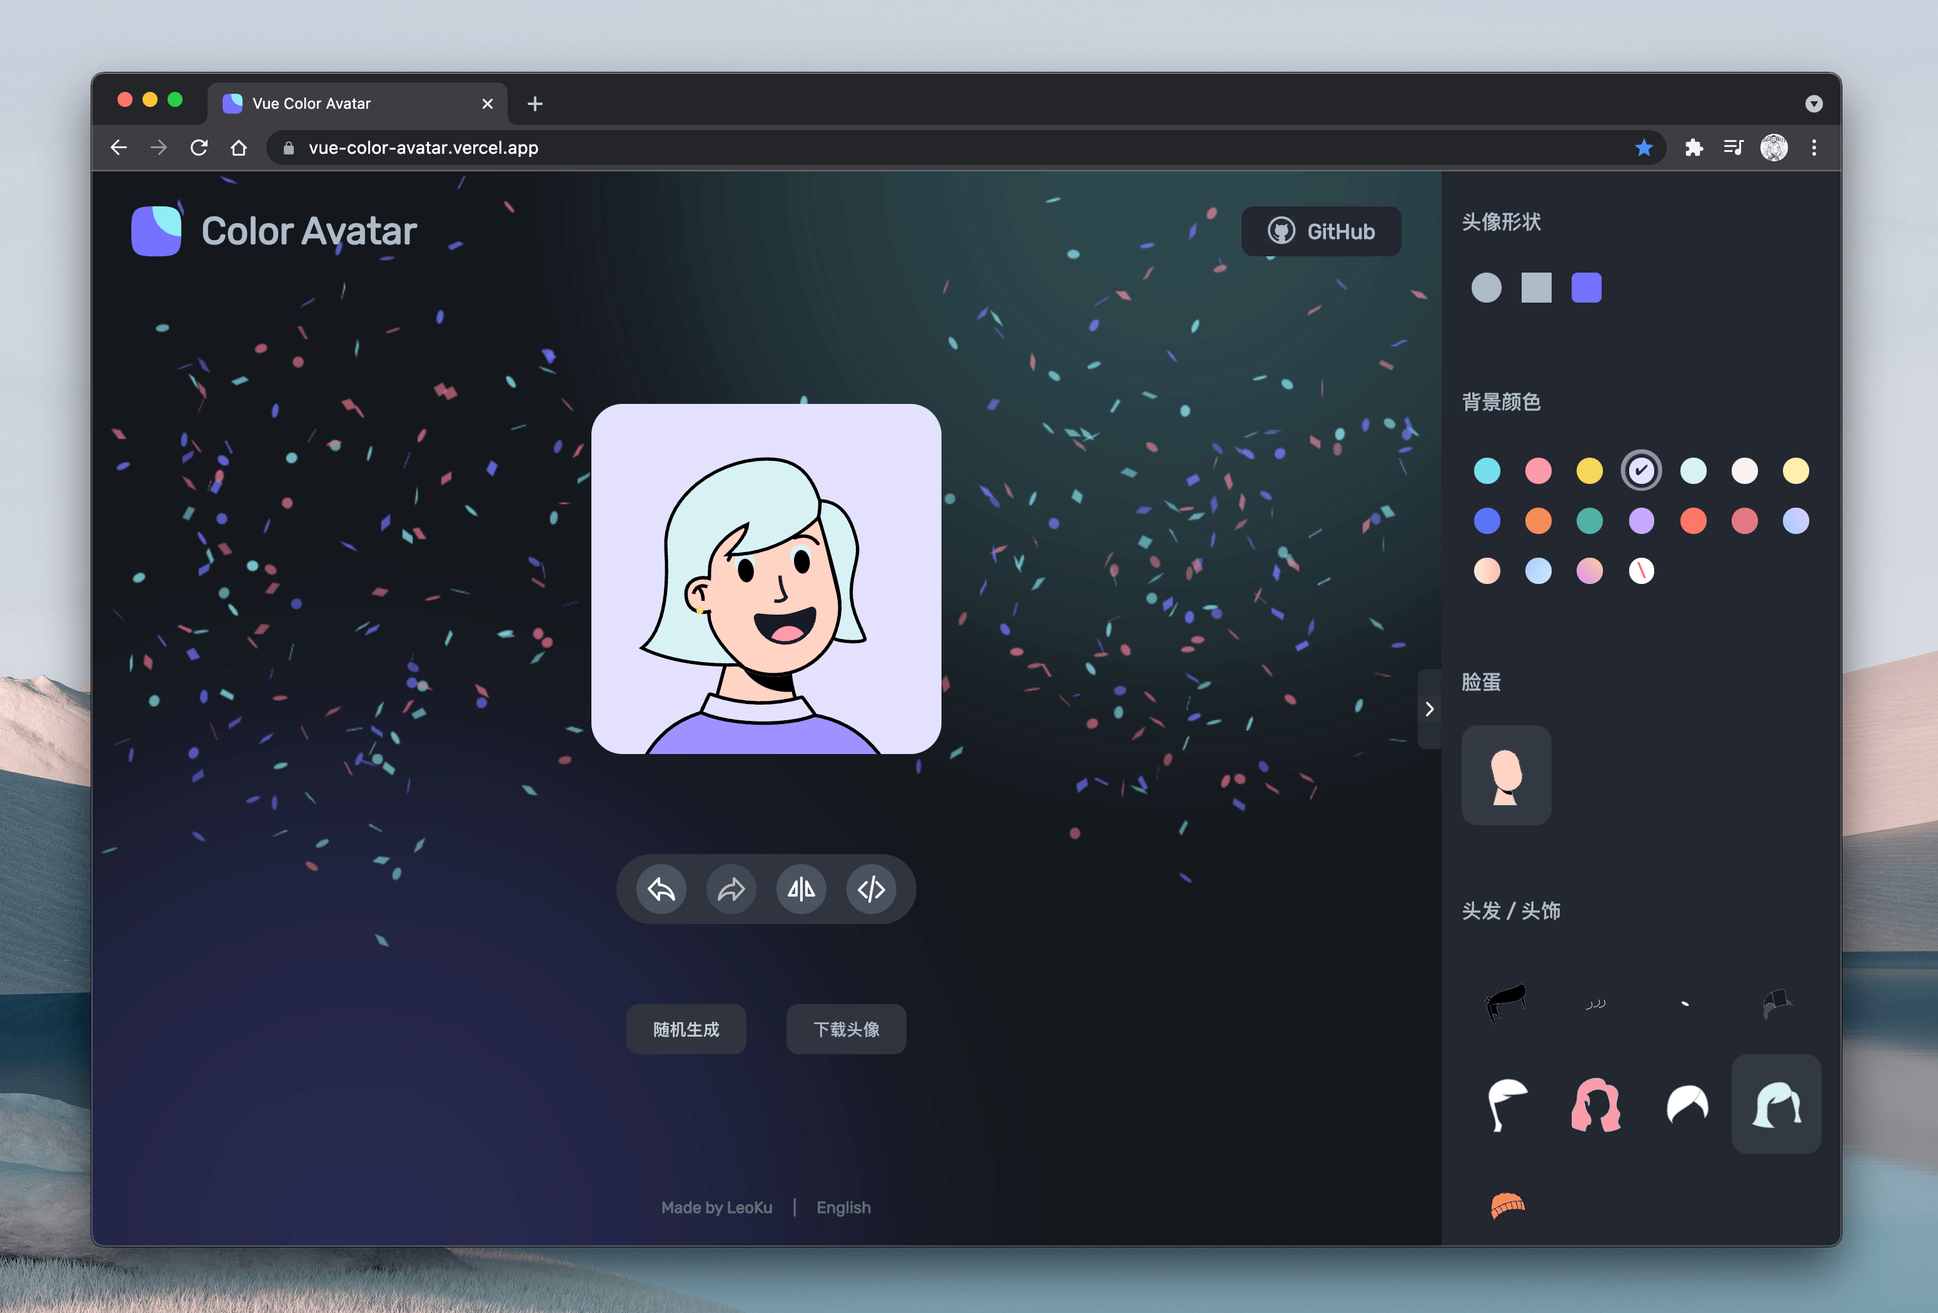
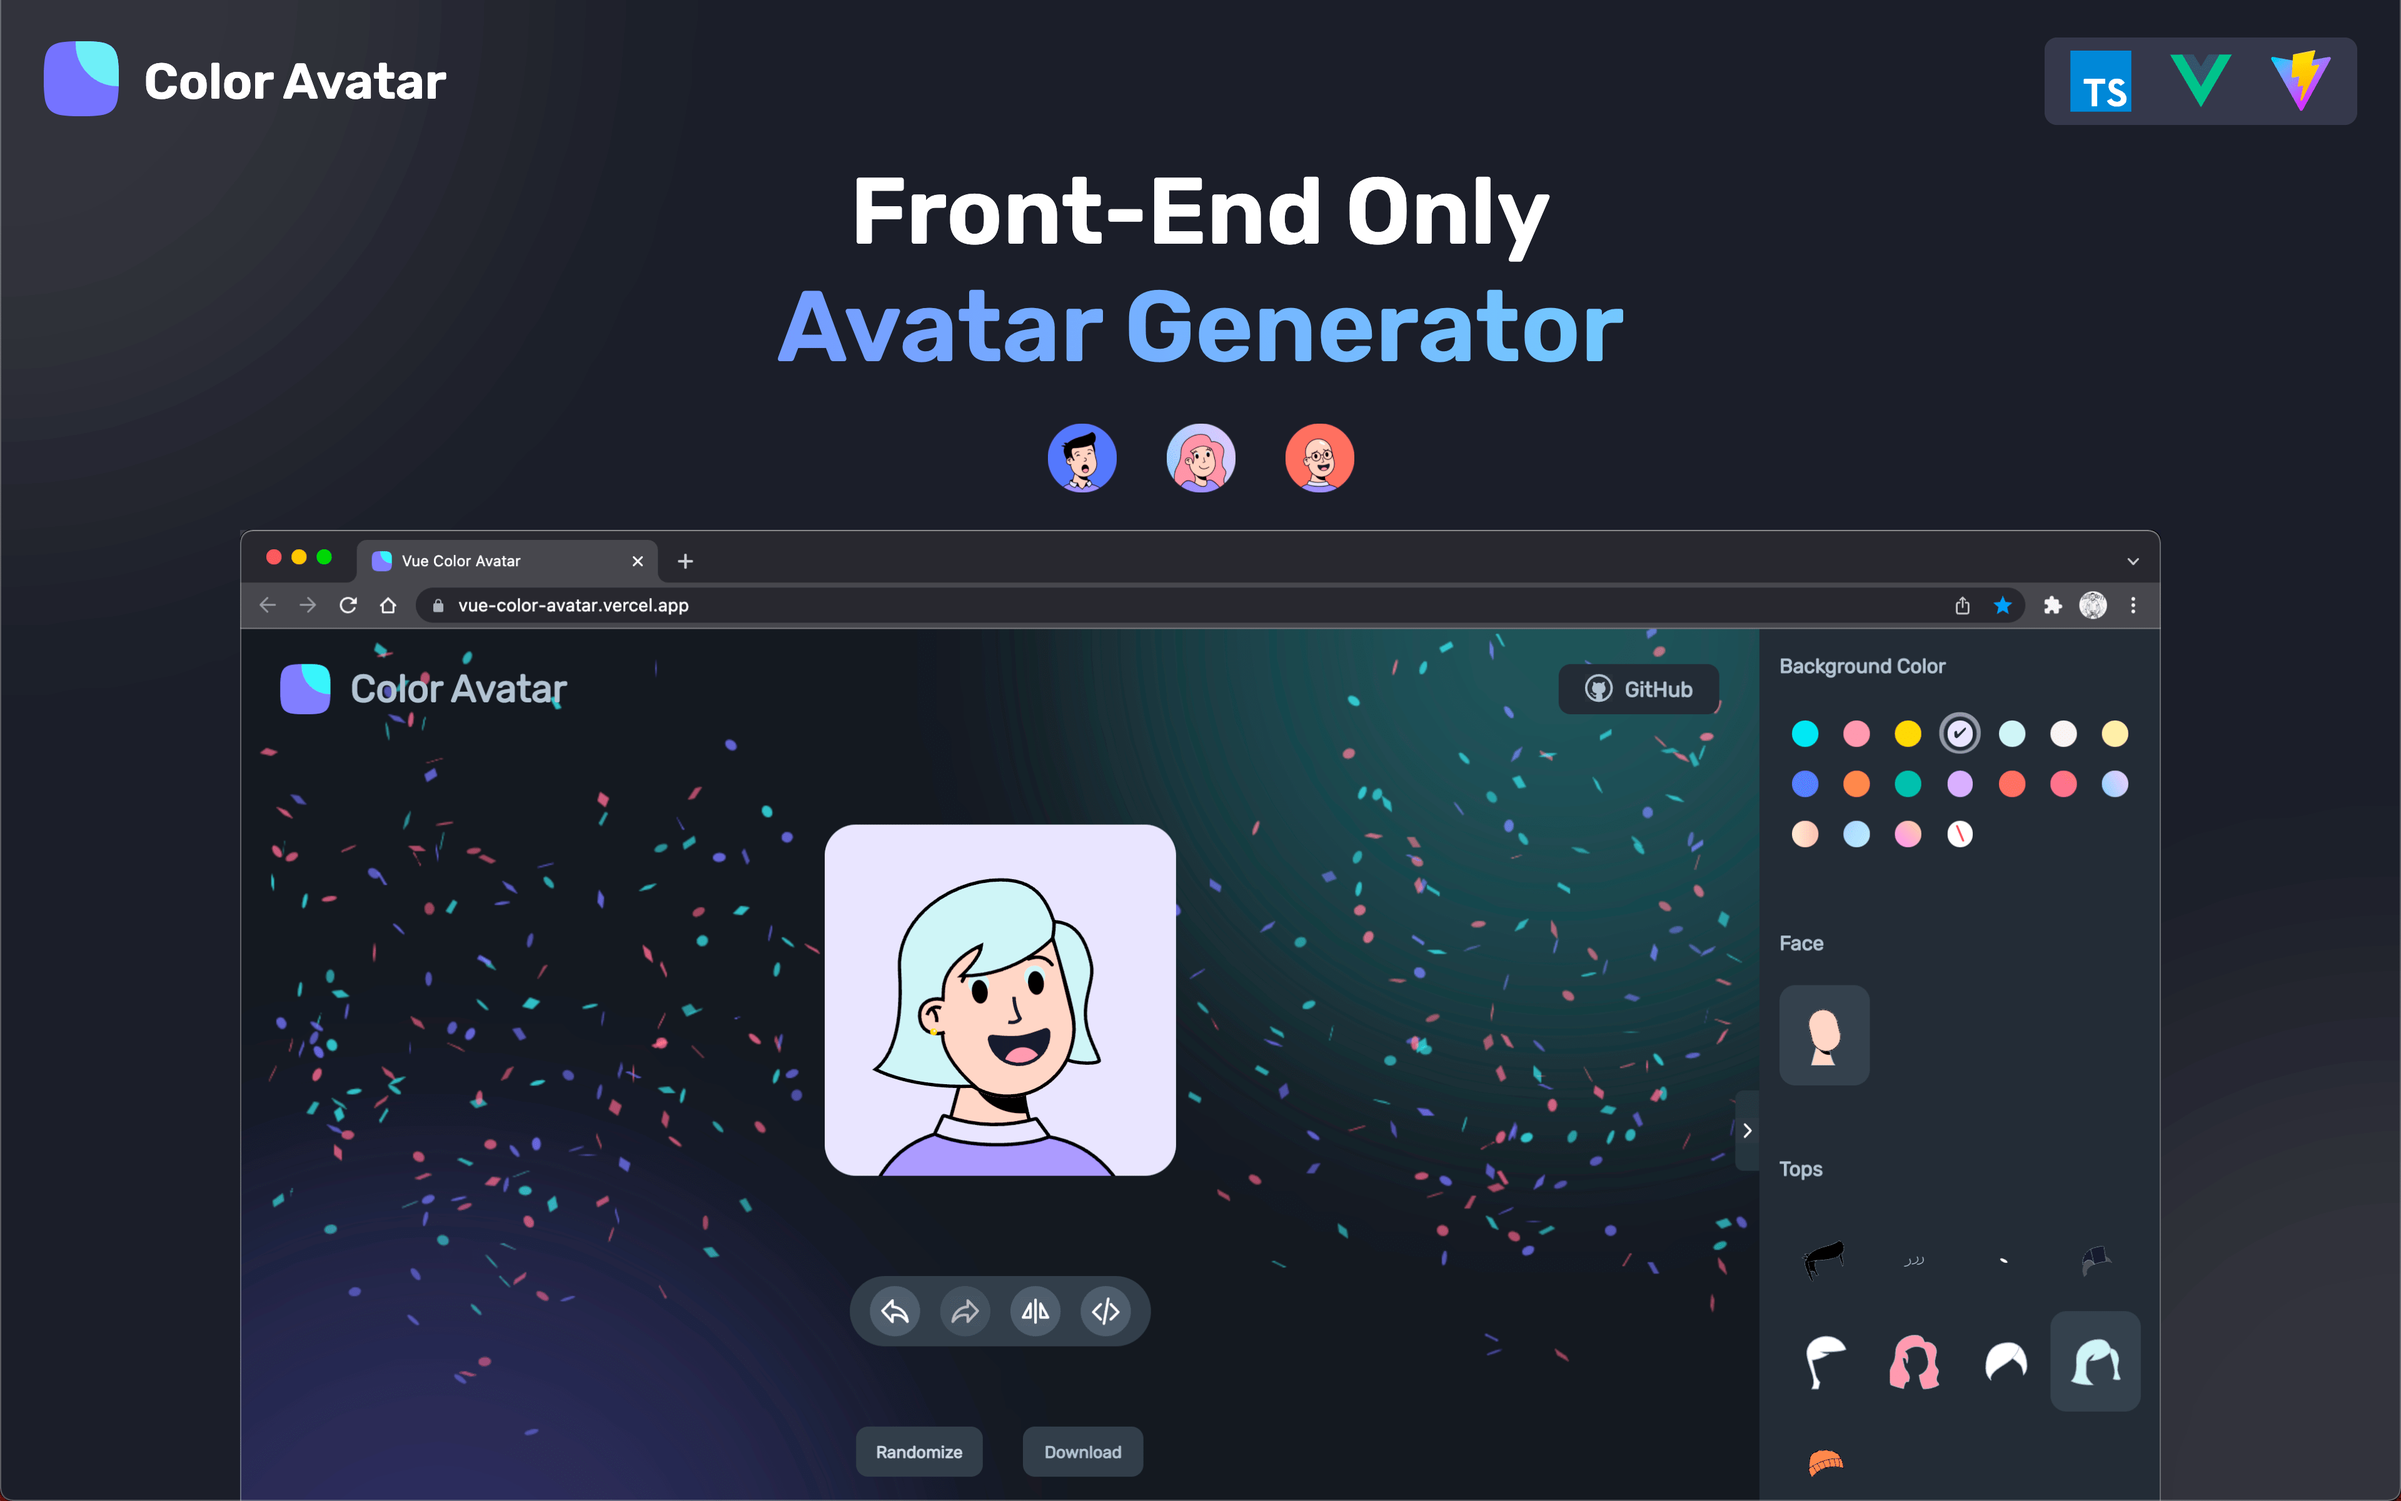
chore: update social preview

diff --git a/landing-page/landing-page.html b/landing-page/landing-page.html
@@ -1,0 +1,132 @@
+<!DOCTYPE html>
+<html lang="zh-CN">
+  <head>
+    <meta charset="UTF-8" />
+    <link rel="icon" href="../public/favicon.svg" />
+    <link rel="preconnect" href="https://fonts.googleapis.com" />
+    <link rel="preconnect" href="https://fonts.gstatic.com" crossorigin />
+    <link
+      href="https://fonts.googleapis.com/css2?family=Rubik:wght@600&display=swap"
+      rel="stylesheet"
+    />
+    <meta name="viewport" content="width=device-width, initial-scale=1.0" />
+    <meta name="description" content="A pure front-end avatar generator." />
+
+    <style>
+      html,
+      body {
+        margin: 0;
+        color: #fff;
+        font-family: 'Rubik', sans-serif;
+      }
+
+      .color-block {
+        --size: 40vmax;
+
+        position: fixed;
+        z-index: 99;
+        width: var(--size);
+        height: var(--size);
+        background: #fff;
+        border-radius: 50%;
+        opacity: 0.06;
+        filter: blur(100px);
+      }
+
+      .color-block[data-id='1'] {
+        top: 0;
+        left: 0;
+        transform: translate(-50%, -50%);
+      }
+
+      .color-block[data-id='2'] {
+        right: 0;
+        bottom: 0;
+        transform: translate(50%, 50%);
+      }
+    </style>
+
+    <title>Vue Color Avatar</title>
+  </head>
+
+  <body>
+    <div id="app">
+      <main style="height: 100vh; background-color: #1a1b24">
+        <header
+          style="
+            position: relative;
+            z-index: 100;
+            padding: 30px 35px 15px;
+            display: flex;
+            align-items: center;
+            justify-content: space-between;
+          "
+        >
+          <div style="display: flex; align-items: center">
+            <div style="margin-right: 20px">
+              <img src="../public/favicon.svg" width="60" />
+            </div>
+            <div style="font-size: 40px; font-weight: bold">Color Avatar</div>
+          </div>
+
+          <div
+            style="
+              display: flex;
+              align-items: center;
+              padding: 10px 20px;
+              background: #303141;
+              border-radius: 10px;
+            "
+          >
+            <img src="./ts.svg" style="width: 50px" />
+            <img src="./vue.svg" style="width: 50px; margin: 0 30px" />
+            <img src="./vite.svg" style="width: 50px" />
+          </div>
+        </header>
+
+        <div style="position: relative; z-index: 100">
+          <h1
+            style="
+              margin: 10px 0 30px;
+              display: flex;
+              flex-direction: column;
+              font-weight: bold;
+              font-size: 80px;
+              text-align: center;
+            "
+          >
+            <span style="font-size: 75px">Front-End Only</span>
+            <span
+              style="
+                background: linear-gradient(90deg, #6967fe, #85e9f4);
+                background-clip: text;
+                -webkit-text-fill-color: transparent;
+                -webkit-background-clip: text;
+              "
+              >Avatar Generator</span
+            >
+          </h1>
+          <div
+            style="
+              display: flex;
+              align-items: center;
+              justify-content: center;
+              margin-bottom: 30px;
+            "
+          >
+            <img src="./avatar-1.png" style="width: 55px" />
+            <img src="./avatar-2.png" style="width: 55px; margin: 0 40px" />
+            <img src="./avatar-3.png" style="width: 55px" />
+          </div>
+
+          <div style="width: 80vw; margin: 0 auto">
+            <img style="width: 100%" src="./preview.png" />
+          </div>
+        </div>
+
+        <div class="color-block" data-id="1"></div>
+        <div class="color-block" data-id="2"></div>
+      </main>
+    </div>
+  </body>
+</html>

diff --git a/README.md b/README.md
@@ -7,17 +7,15 @@
 
 </div>
 
-![preview](./images/social-preview-1.png)
-
-![preview](./images/social-preview-2.png)
-
-![preview](./images/social-preview-3.jpeg)
+<a>
+  <img src="./images/social-preview-1.png" alt="website-preview" />
+</a>
 
 ## 在线预览
 
 [`https://vue-color-avatar.vercel.app`](https://vue-color-avatar.vercel.app)
 
-## 🥳 介绍
+## 介绍
 
 **这是一款矢量风格头像的生成器，你可以搭配不同的素材组件，生成自己的个性化头像。**
 

diff --git a/README-EN.md b/README-EN.md
@@ -1,17 +1,15 @@
 <div align="center">
   <h1>Vue Color Avatar</h1>
 
-  <p>🧑🦱 A pure front-end avatar generation website 🧑🦳</p>
+  <p>🧑🦱 A front-end only avatar generation website 🧑🦳</p>
 
 [简体中文](./README.md)
 
 </div>
 
-![preview](./images/social-preview-1.png)
-
-![preview](./images/social-preview-2.png)
-
-![preview](./images/social-preview-3.jpeg)
+<a>
+  <img src="./images/social-preview-1.png" alt="website-preview" />
+</a>
 
 ## Preview
 
